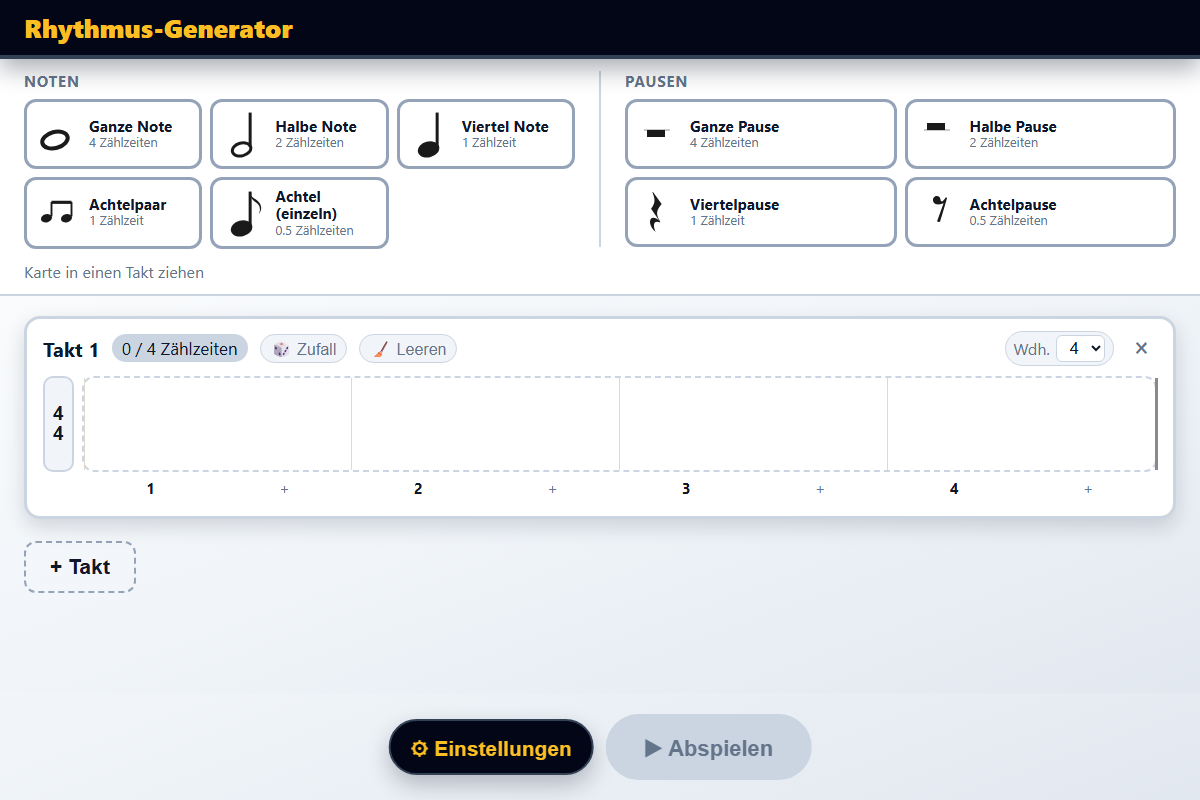
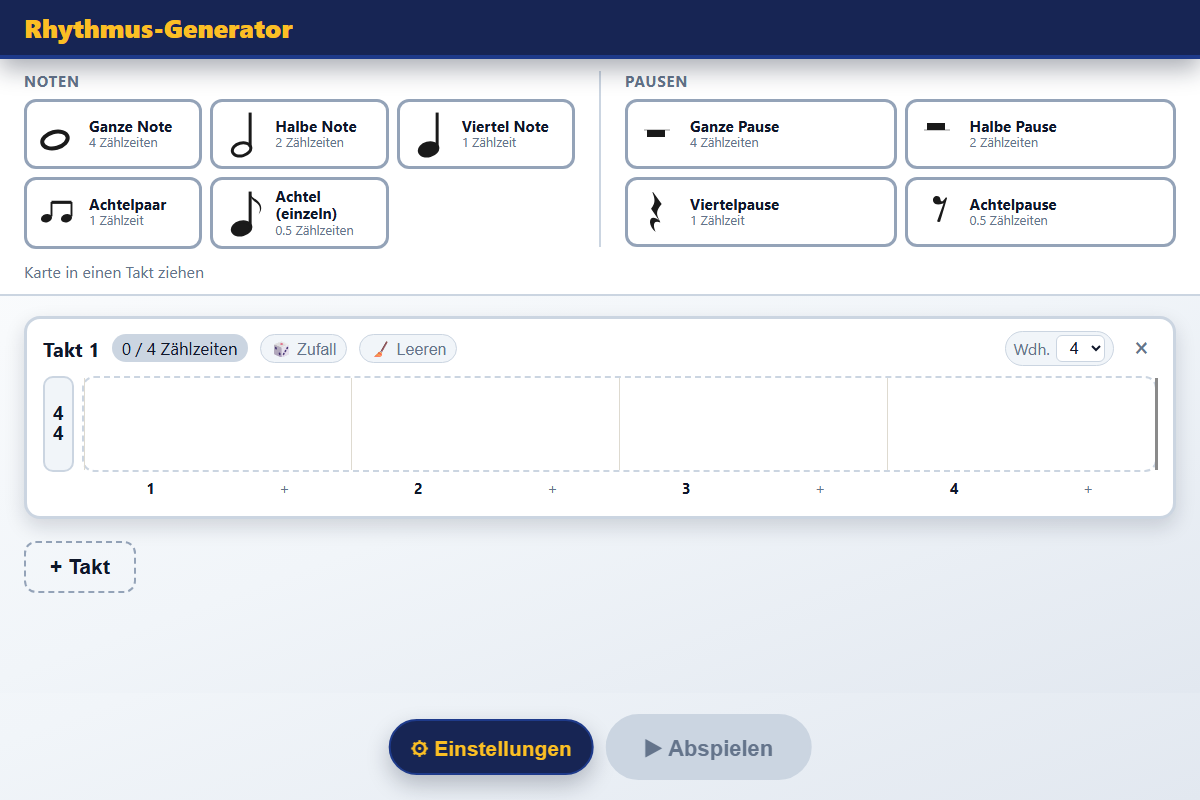
Style-Test: Toolbar/Buttons von Schwarz auf Navy/Royalblau
Nutzer-Feedback: statt reinem Schwarz lieber ein "cooles dunkelblau" für
Header und Buttons. --bg-3 auf Tailwind blue-950 (#172554), --line-dark/
Hover auf blue-900 (#1e3a8a) - restliche Palette unverändert.

Changed region(s): [[0.0, 0.0, 1.0, 0.0938], [0.3083, 0.875, 0.4933, 0.9688]]

diff --git a/style.css b/style.css
@@ -1,14 +1,14 @@
 :root {
   --bg-1: #ffffff;
   --bg-2: #f1f5f9;
-  --bg-3: #020617;
+  --bg-3: #172554;
   --ink: #0f172a;
   --ink-soft: #64748b;
   --paper: #ffffff;
   --paper-alt: #f1f5f9;
   --line: #cbd5e1;
   --border-strong: #94a3b8;
-  --line-dark: #334155;
+  --line-dark: #1e3a8a;
   --accent: #f59e0b;
   --accent-light: #fbbf24;
   --accent-dark: #b45309;
@@ -85,7 +85,7 @@ h1, h2, h3 { margin: 0; }
   cursor: pointer;
   min-height: 48px;
 }
-.btn:hover { background: #0f172a; }
+.btn:hover { background: #1e3a8a; }
 
 .btn:disabled { opacity: 0.4; cursor: default; }
 
